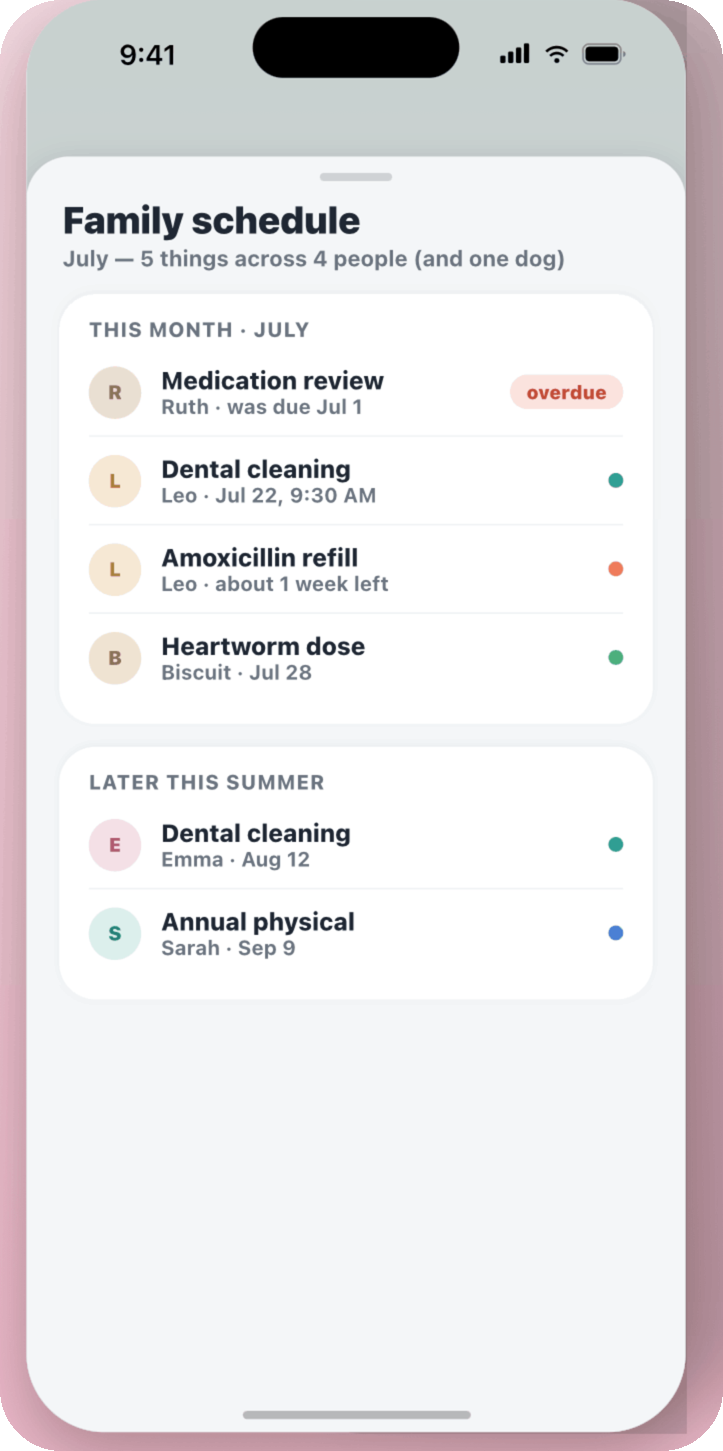
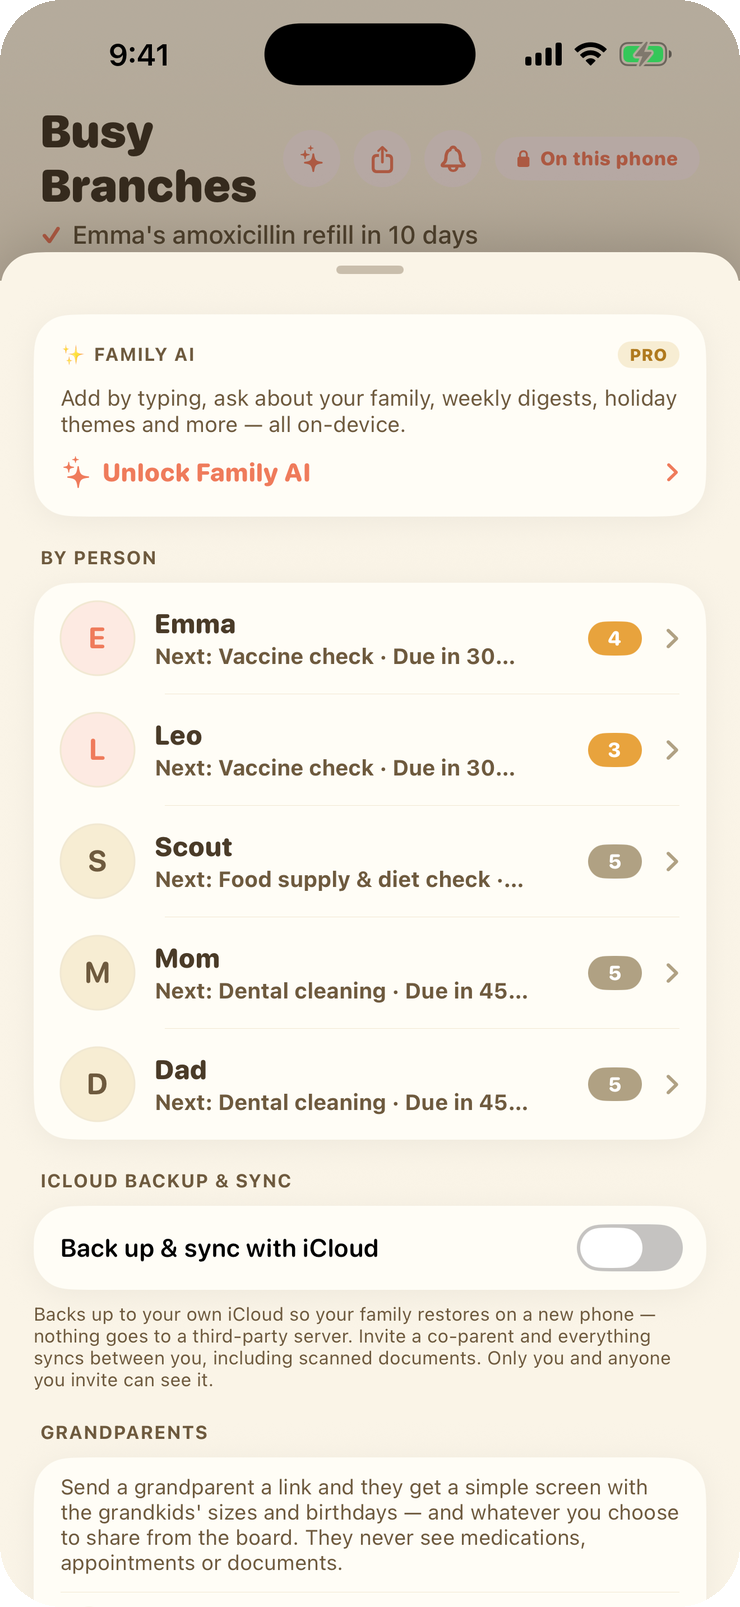
Replace listing screenshots with fresh captures from the current build
The previous images came off the App Store listing and were captured from an
older build: they predate the audience picker on the welcome screen, and every
seeded family member wore a birthday party hat because the QA seed gave all of
them today's date.

These are taken from the simulator against the current build, so the site now
shows the Golden Hour palette the app actually ships.

The fourth feature block moves from the document vault to the monthly recap.
The vault has no scroll anchor in the debug harness, so there was no honest way
to capture it; it keeps its billing in the recap bullets and the FAQ instead.

Files are renamed to say what they actually show — the old names had drifted
from their contents.

Claude-Session: https://claude.ai/code/session_01XA4LjuF3zMLPR7aZHwM5WS

diff --git a/index.html b/index.html
@@ -70,7 +70,7 @@
     </div>
 
     <div class="hero-shot reveal d2">
-      <img src="assets/shots/01-family-tree.png" alt="The Busy Branches home screen: a family tree with Sarah, David, Ruth, Emma, Leo and the dog Biscuit hanging on its branches." width="725" height="1452" fetchpriority="high">
+      <img src="assets/shots/01-family-tree.png" alt="The Busy Branches home screen: Mom, Dad, Emma, Leo and the dog Scout hanging on a family tree, with a Family Board tag on the trunk." width="740" height="1607" fetchpriority="high">
     </div>
   </div>
 
@@ -103,7 +103,7 @@
       </div>
       <div class="feature-media reveal d1">
         <div class="phone tilt">
-          <img src="assets/shots/03-schedules.png" alt="Emma's profile showing what's coming up, her medications with a supply bar, and her past checkups." loading="lazy" width="723" height="1452">
+          <img src="assets/shots/03-member-profile.png" alt="Emma's profile: her care schedule with a vaccine check, well-child checkup, dental cleaning and shoe-size check, plus her growth history." loading="lazy" width="740" height="1607">
         </div>
       </div>
     </div>
@@ -121,7 +121,7 @@
       </div>
       <div class="feature-media reveal d1">
         <div class="phone tilt">
-          <img src="assets/shots/04-family-schedule.png" alt="The family schedule, listing what every member of the household is due for." loading="lazy" width="723" height="1451">
+          <img src="assets/shots/04-family-schedule.png" alt="The family schedule, listing what Emma, Leo, Scout, Mom and Dad are each due for next." loading="lazy" width="740" height="1607">
         </div>
       </div>
     </div>
@@ -139,25 +139,25 @@
       </div>
       <div class="feature-media reveal d1">
         <div class="phone tilt">
-          <img src="assets/shots/05-reminders.png" alt="Busy Branches reminders arriving before things come due." loading="lazy" width="723" height="1452">
+          <img src="assets/shots/05-chores-board.png" alt="The chores board: make your bed, feed Scout, put toys away and homework folder out, with stars and a weekly leaderboard." loading="lazy" width="740" height="1607">
         </div>
       </div>
     </div>
 
     <div class="feature">
       <div class="feature-text reveal">
-        <h3>A vault for the paperwork</h3>
-        <p>Snap the insurance card, the vaccination record, the school enrolment form. They're filed under the right person and they never leave the device.</p>
+        <h3>A warm recap every month</h3>
+        <p>At the end of the month Busy Branches writes up what your family actually got through — who did what, how much everyone grew, and which routines held.</p>
         <ul class="feature-list">
-          <li>Scan straight from the camera</li>
-          <li>Organised by family member</li>
-          <li>Text read on-device, so scans stay searchable</li>
+          <li>Written in plain language, not a chart</li>
+          <li>Every size change, tracked over time</li>
+          <li>A document vault for insurance cards and records</li>
           <li>Export a clean PDF when a school or clinic asks</li>
         </ul>
       </div>
       <div class="feature-media reveal d1">
         <div class="phone tilt">
-          <img src="assets/shots/06-document-vault.png" alt="Emma's document vault holding an insurance card, vaccination record, school enrolment form and allergy action plan." loading="lazy" width="723" height="1452">
+          <img src="assets/shots/06-monthly-recap.png" alt="July at a glance: four things looked after between Dad and Mom, Emma's shoe size going from 13C to 1Y, and her bath kept up twelve times." loading="lazy" width="740" height="1607">
         </div>
       </div>
     </div>
@@ -193,7 +193,7 @@
     </div>
     <div class="reveal d2">
       <div class="phone">
-        <img src="assets/shots/02-privacy.png" alt="The Busy Branches welcome screen, promising that everything stays on this phone with no accounts and no cloud." loading="lazy" width="665" height="1434">
+        <img src="assets/shots/02-welcome.png" alt="The Busy Branches welcome screen: “Your family, on schedule”, with a badge reading everything stays on this phone, no accounts, no cloud." loading="lazy" width="740" height="1607">
       </div>
     </div>
   </div>
@@ -209,13 +209,13 @@
     </div>
   </div>
   <div class="rail reveal d1">
-    <figure><img src="assets/shots/01-family-tree.png" alt="The family tree home screen." loading="lazy"><figcaption>Everyone on one tree</figcaption></figure>
-    <figure><img src="assets/shots/04-family-schedule.png" alt="The family schedule." loading="lazy"><figcaption>The family schedule</figcaption></figure>
-    <figure><img src="assets/shots/03-schedules.png" alt="A member profile." loading="lazy"><figcaption>A profile per person</figcaption></figure>
-    <figure><img src="assets/shots/05-reminders.png" alt="Reminders arriving before things come due." loading="lazy"><figcaption>Reminders before it's late</figcaption></figure>
-    <figure><img src="assets/shots/06-document-vault.png" alt="The document vault." loading="lazy"><figcaption>The document vault</figcaption></figure>
-    <figure><img src="assets/shots/07-weather.png" alt="The tree in real weather." loading="lazy"><figcaption>Real weather on the tree</figcaption></figure>
-    <figure><img src="assets/shots/08-holidays.png" alt="The tree dressed for the holidays." loading="lazy"><figcaption>Dressed for the holidays</figcaption></figure>
+    <figure><img src="assets/shots/01-family-tree.png" alt="The family tree home screen." loading="lazy" width="740" height="1607"><figcaption>Everyone on one tree</figcaption></figure>
+    <figure><img src="assets/shots/04-family-schedule.png" alt="The family schedule." loading="lazy" width="740" height="1607"><figcaption>The family schedule</figcaption></figure>
+    <figure><img src="assets/shots/03-member-profile.png" alt="A member profile." loading="lazy" width="740" height="1607"><figcaption>A profile per person</figcaption></figure>
+    <figure><img src="assets/shots/05-chores-board.png" alt="The chores board with stars." loading="lazy" width="740" height="1607"><figcaption>Chores, stars and streaks</figcaption></figure>
+    <figure><img src="assets/shots/07-family-board.png" alt="The family cork board." loading="lazy" width="740" height="1607"><figcaption>The family board</figcaption></figure>
+    <figure><img src="assets/shots/06-monthly-recap.png" alt="The monthly recap." loading="lazy" width="740" height="1607"><figcaption>Your month, written up</figcaption></figure>
+    <figure><img src="assets/shots/08-holiday-tree.png" alt="The tree dressed for Christmas." loading="lazy" width="740" height="1607"><figcaption>Dressed for the holidays</figcaption></figure>
   </div>
 </section>
 
